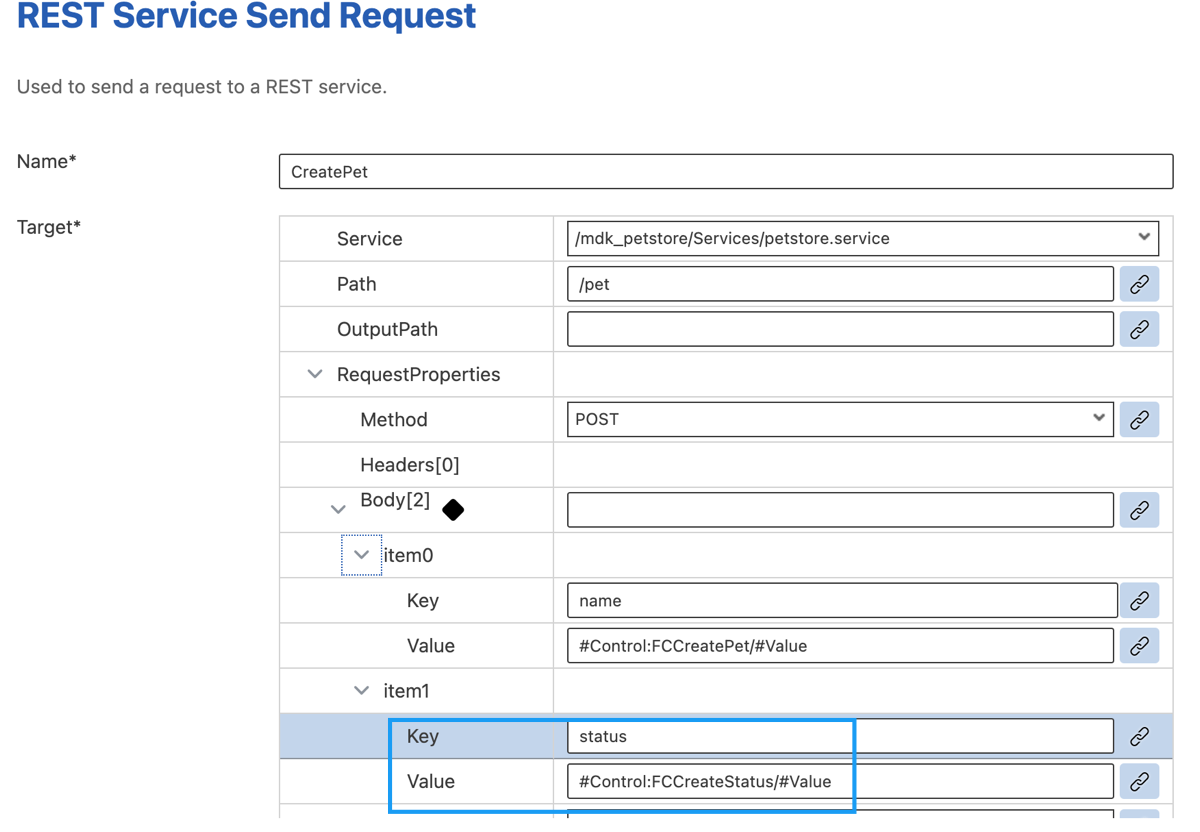
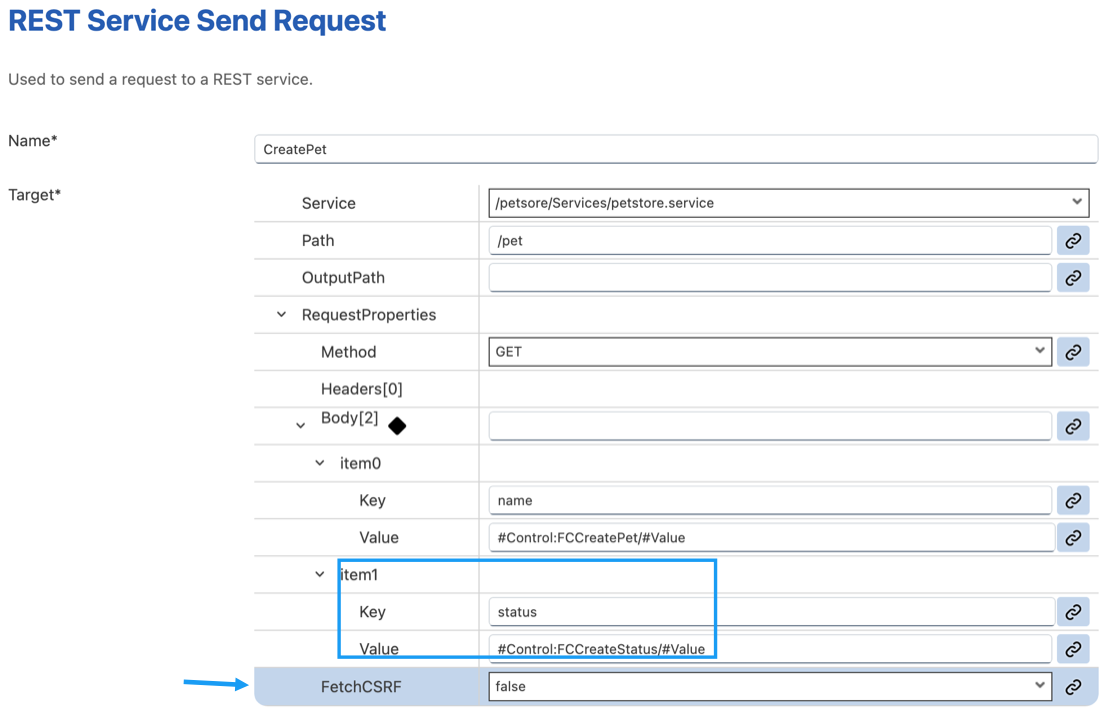
updated

diff --git a/tutorials/cp-mobile-dev-kit-rest-api/cp-mobile-dev-kit-rest-api.md b/tutorials/cp-mobile-dev-kit-rest-api/cp-mobile-dev-kit-rest-api.md
@@ -231,9 +231,8 @@ You will add an **Object Table** control  item on `Main.page` to display the lis
     >If you see any error in Main.page (code editor), ignore it as MDK editor currently can't validate such REST Service endpoint properties.
 
 
-### Deploy the application
+### Deploy the Project
 
-So far, you have learned how to build an MDK application in the SAP Business Application Studio editor. Now, you will deploy the application definitions to Mobile Services and Cloud Foundry to use it in the Mobile client and Web application respectively.
 
 1. Right-click `Application.app` and select **MDK: Deploy**.
 
@@ -262,7 +261,7 @@ The On-boarding QR code is now displayed.
 
 >Leave the Onboarding dialog box open for the next step.
 
-### Run the app
+### Run the Project
 
 [OPTION BEGIN [Android]]
 
@@ -444,7 +443,7 @@ After filling-up the details for creating a new pet record, you will send these 
 
     <!-- border -->![MDK](img-11.7.gif)
 
-9. Click create icon to add another array item(1) and click **Finish**. 
+9. Click create icon to add another array item(1). 
 
     | Field | Value |
     |----|----|
@@ -452,6 +451,8 @@ After filling-up the details for creating a new pet record, you will send these 
     | `Value`| Bind it to input control `#Control:FCCreateStatus/#Value` |
 
     <!-- border -->![MDK](img-11.8.png)
+
+10. Set `FetchCSRF` to false as you don't need to obtain a `CSRF` token for the `petstore` service, and click **Finish**. 
 
     >You can find more details about `SendRequest` action in [help documentation](https://help.sap.com/doc/69c2ce3e50454264acf9cafe6c6e442c/Latest/en-US/docs-en/reference/schemadoc/Action/RestService/SendRequest.schema.html).
 
@@ -475,7 +476,7 @@ Now, you will add a button on the `Pet_Create.page` and set it's `onPress` to `C
 
 3. Now, you will set the `onPress` event to `ClosePage.action`.
 
-    In **Events** tab, click the 3 dots icon for the `OnPress` property to open the **Object Browser**.
+    In **Events** tab, click the dotted icon for the `OnPress` property to open the **Object Browser**.
 
     Double click the `ClosePage.action` and click **OK** to set it as the `OnPress` Action.
 
@@ -495,7 +496,7 @@ You will add a button to the `Main.page` called **Add**. When you click on this 
 
     <!-- border -->![MDK](img-13.1.png)
 
-3. Navigate to the **Events** tab, click the 3 dots icon for the `OnPress` property to open the **Object Browser**.
+3. Navigate to the **Events** tab, click the dotted icon for the `OnPress` property to open the **Object Browser**.
 
     <!-- border -->![MDK](img-13.2.png)
 
@@ -515,7 +516,7 @@ You will add a button to the `Main.page` called **Add**. When you click on this 
 
     <!-- border -->![MDK](img-13.3.png)
 
-### Redeploy the application
+### ReDeploy the Project
 
 Right-click the `Application.app` file in the project explorer pane,  select **MDK: Deploy** and then select deploy target as **Mobile & Cloud**.
 
